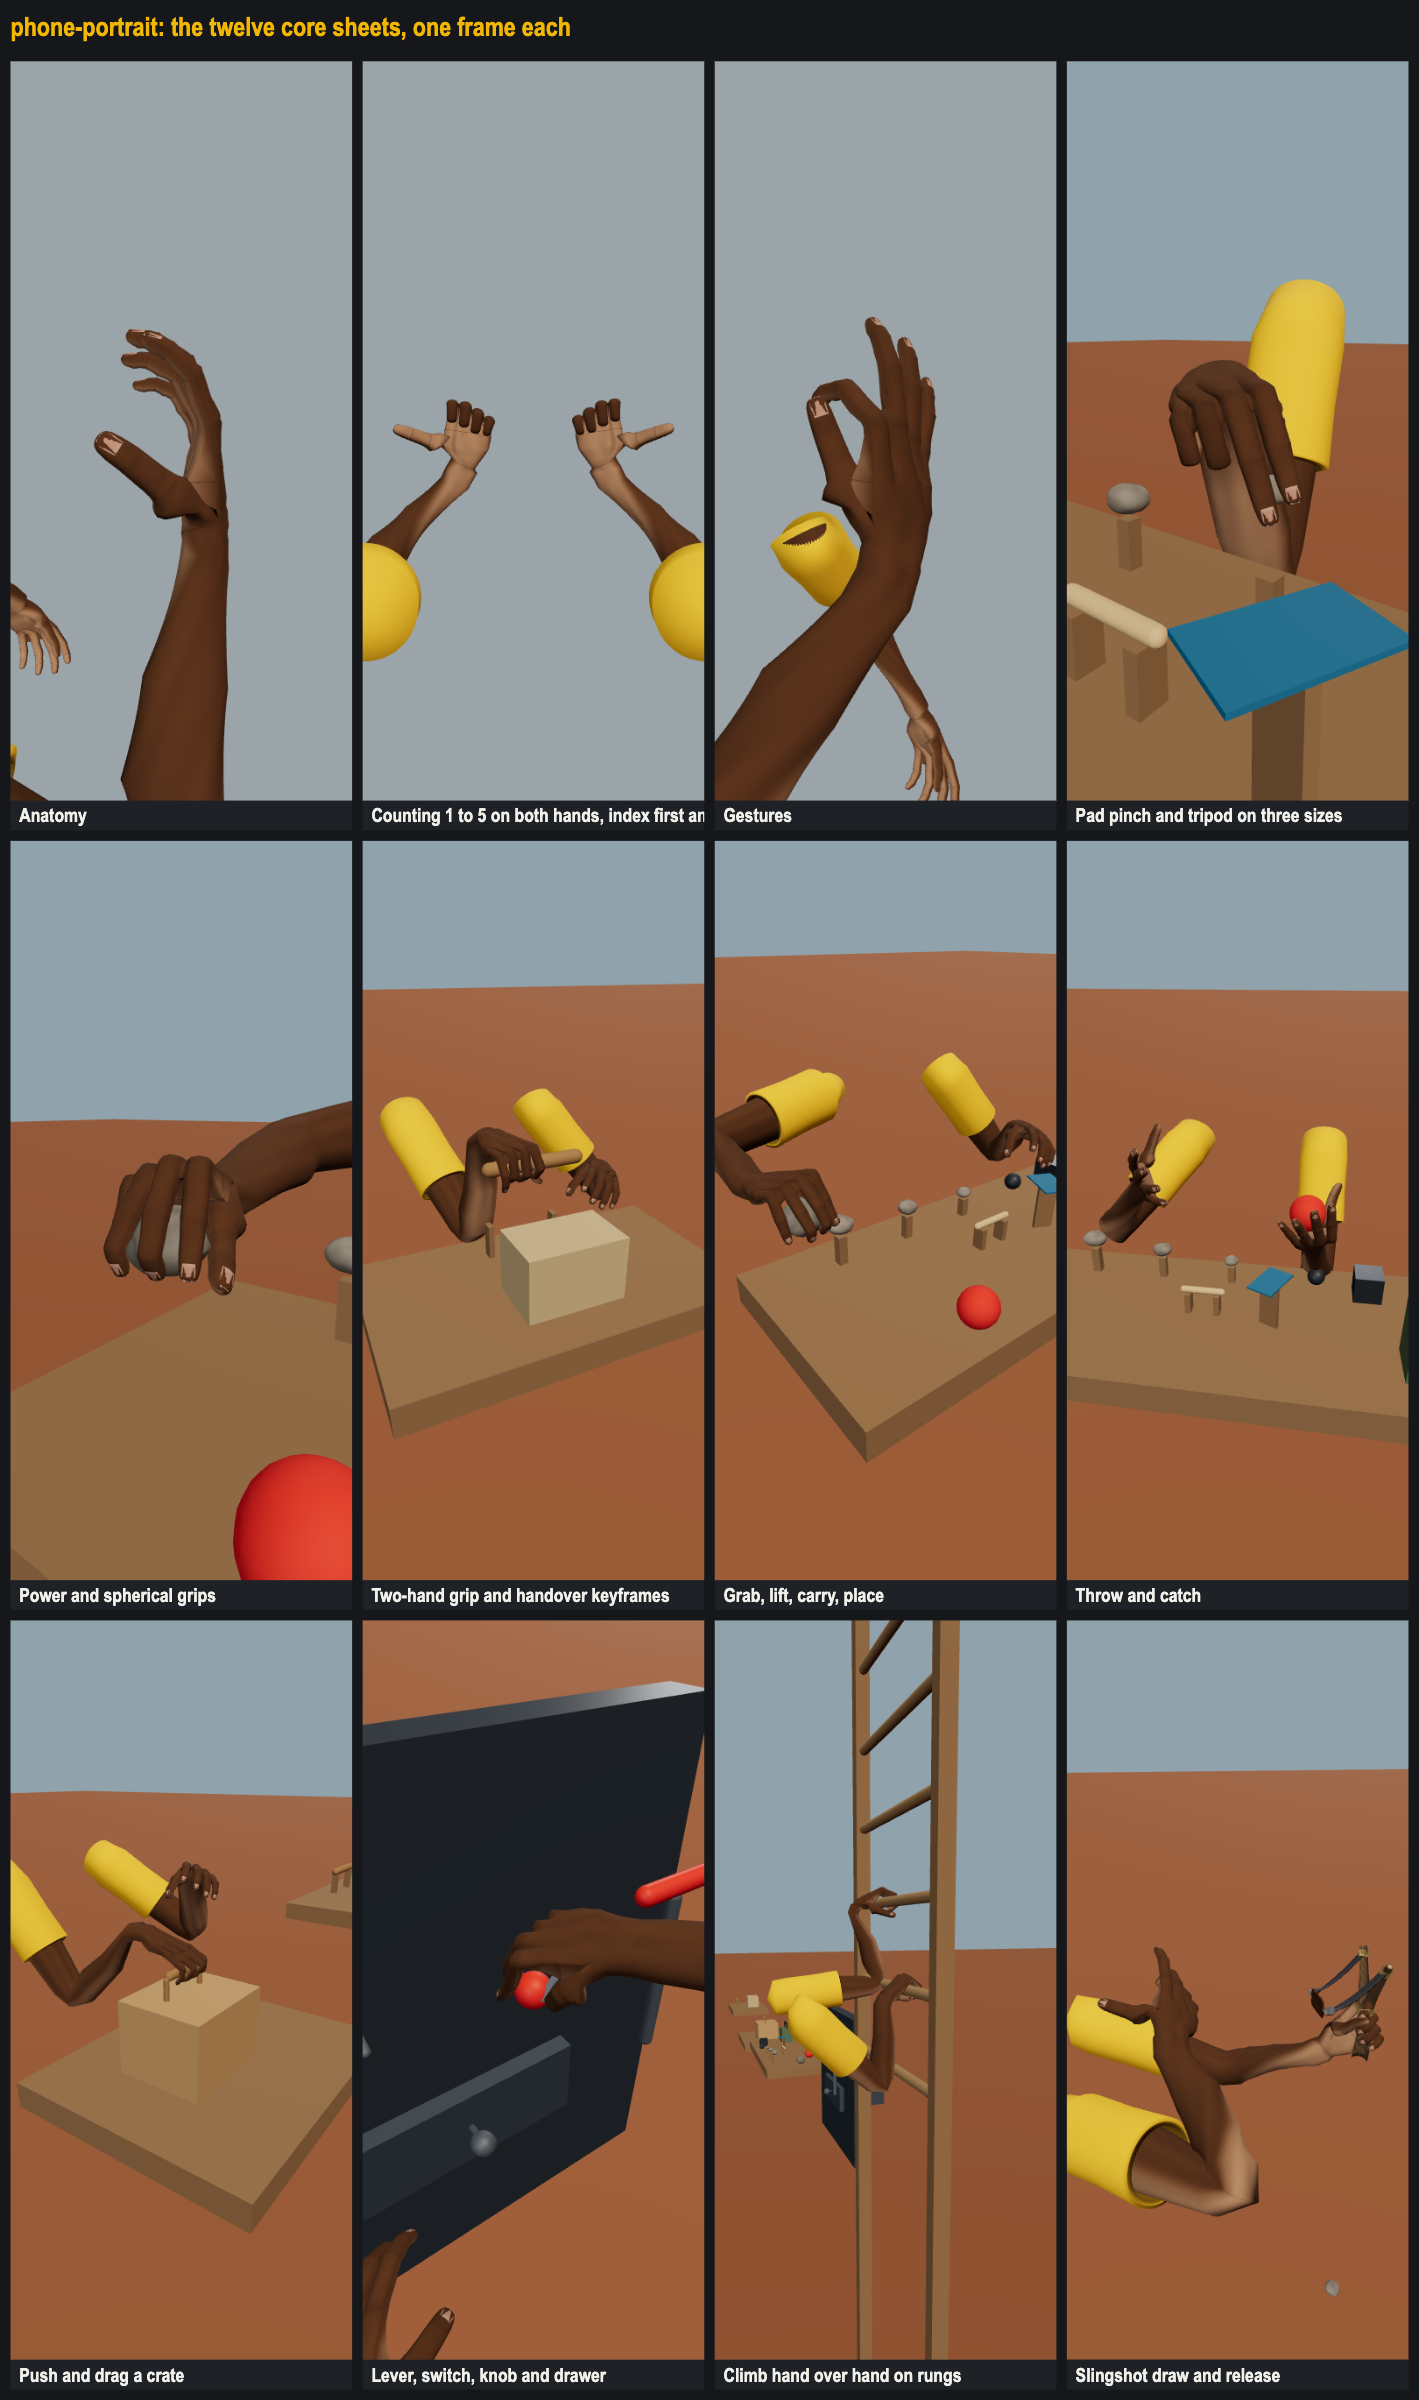
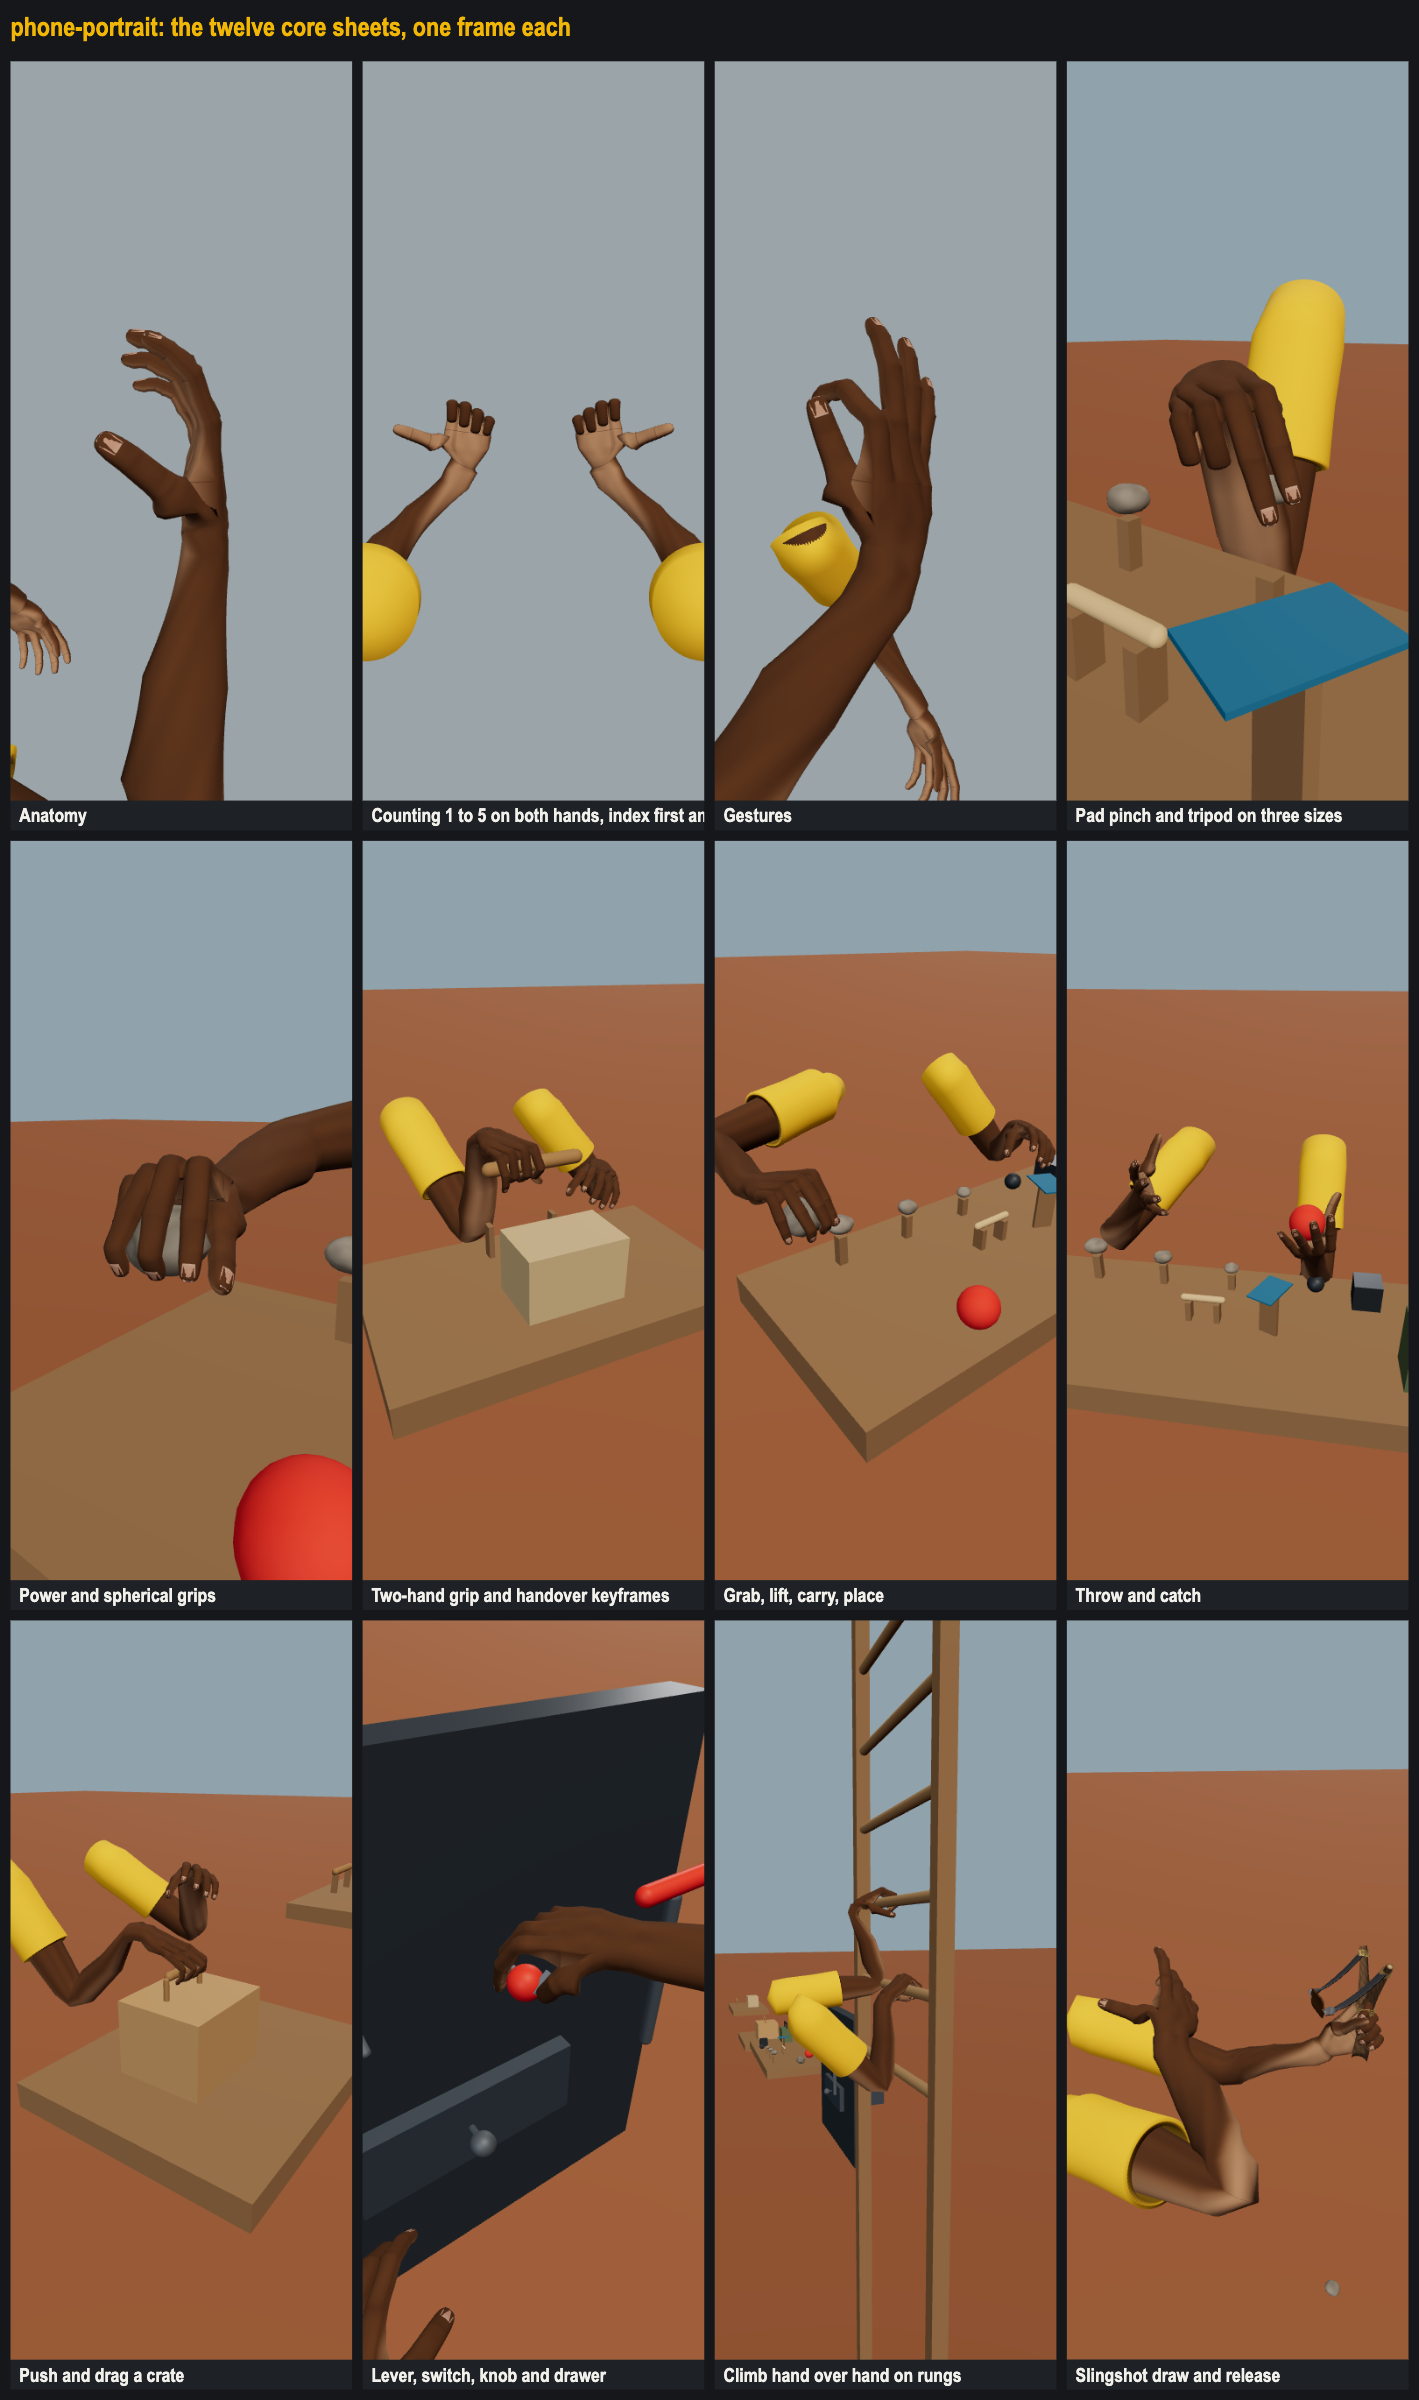
Fix throw and catch framing on phone portrait: pickup cropped
08 throw and catch, phone portrait, throwCatch 1.20 s: the hand picking
up the ball was cut by the left edge. The camera centres further right
and stands a little further back, so the pickup and the catch both fit.
docs/HANDS_MINORS.md gains the second review's cosmetic minors.

Changed region(s): [[0.8372, 0.4688, 0.9922, 0.625], [0.7752, 0.4688, 0.8682, 0.5312], [0.3411, 0.8125, 0.4341, 0.8438]]

diff --git a/app/scenes/cameras.js b/app/scenes/cameras.js
@@ -28,7 +28,7 @@ const SCENARIO_VIEWS = {
   hook: { target: [-0.35, -0.38, -0.46], yaw: -2.5, pitch: 0.45, dist: 0.7 },
   slipHeavy: { target: [-0.25, -0.4, -0.33], yaw: -2.5, pitch: 0.45, dist: 0.6 },
   slipJerk: { target: [-0.17, -0.38, -0.3], yaw: -2.5, pitch: 0.45, dist: 0.6 },
-  throwCatch: { target: [0, -0.28, -0.34], yaw: 3.3, pitch: 0.45, dist: 0.8 },
+  throwCatch: { target: [0.08, -0.3, -0.38], yaw: 3.3, pitch: 0.45, dist: 0.9 },
   grabCarryPlace: { target: [0.28, -0.38, -0.36], yaw: 2.5, pitch: 0.5, dist: 0.7 },
   sphericalGrip: { target: [0.18, -0.4, -0.42], yaw: 2.5, pitch: 0.45, dist: 0.6 },
   pressButton: { target: [-0.2, -0.24, -0.42], yaw: -1.3, pitch: 0.25, dist: 0.5 },

diff --git a/docs/HANDS_MINORS.md b/docs/HANDS_MINORS.md
@@ -32,3 +32,9 @@ Cosmetic nits from the gallery review, not blocking this run. Each line names th
 - 10 props: the switch toggle's change of state is small at sheet scale.
 - 11 climb: the sleeve top looks crumpled when it turns upright at 9.30 s.
 - 12 slingshot: the stone stays on the ground, so the pouch is drawn empty; the fork turns a lot at release 1.00 s.
+- 03 gestures: beckon and wave are motions, so as stills they read weakly (a half claw, an open hand).
+- 05 power and spherical: the rock frame is taken from the grab, carry and place scenario, so its label names that scenario.
+- 07 grab, carry, place: the idle hand rests close to the small iron pieces throughout.
+- 09 push and drag: the idle hand hovers as a loose fist above the crate in every frame.
+- 10 props (phone portrait): the idle left hand is large and cut by the corner in the knob frames.
+- 11 climb: at 9.30 s one sleeve stands upright between the level poses either side of it.
